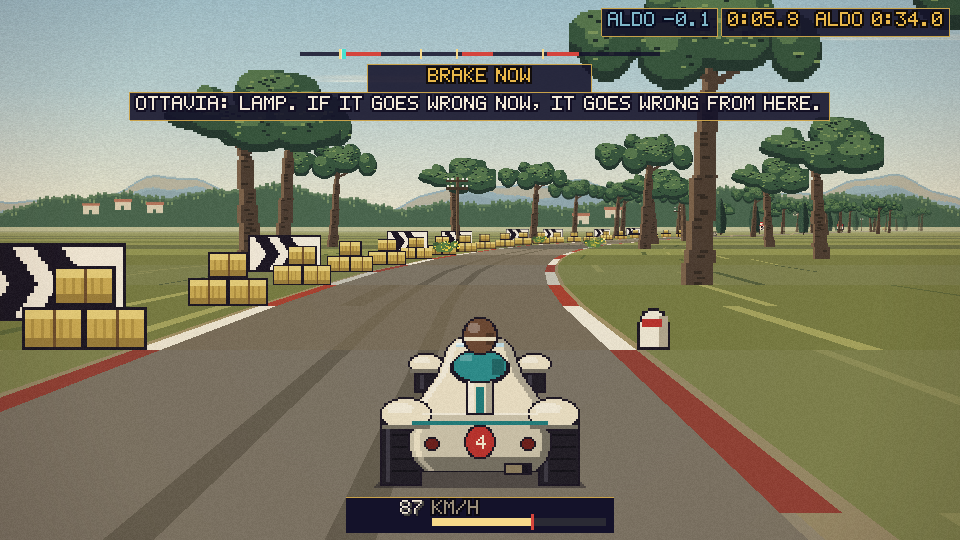
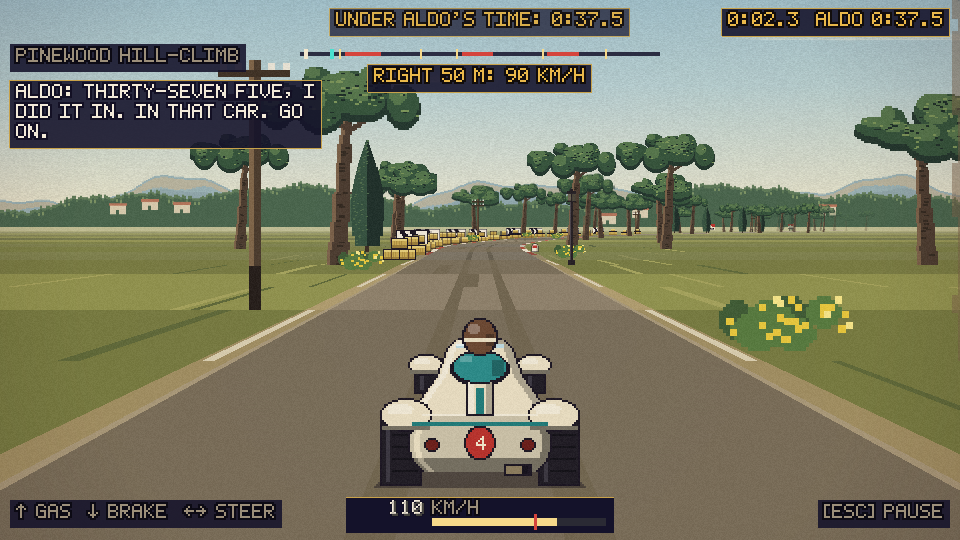
Racer polish: tries count real attempts, the radio keeps off the hard moments, the air and the sung bend are shown, night and near-camera art
- raceFor gets the tries; the scene, HUD, sheet and card read the eased gate from race.track. Aldo says the sheet's time.
- A try is a finish short of the gate, or a race given up past half its road (triedIt); restarts in the first half buy nothing.
- Radio: the first-race lamp line once, on a quiet stretch; non-story lines drop at a bend (28 chars) or over a line still read;
  story lines that are not urgent wait for a straight (6 s). Radio moved top-left; the goal plate fades with the others.
- Race 2: NO AIR on the dash, the DRAFT bar red, Aldo's nudge once, back in once. Sung bends: SHE SINGS for the pull, gold bar, chime.
  The sling now "goes" so it is not confused with the sung bend.
- Story lines from the story builder: the tide on the quay and the Coppa grid; Cassian's "You stopped. Idiot. Go!"
- Art: SABLE OIL is a band on the tail; thin roadside things fade in the last metres instead of filling an edge; air as faint dashes;
  oil glints at 100 m; Cassian's tell lit 0.45 s in two flashes, lamps bigger, head turned further; night darker outside the lamps
  (headlamp 0.6, contrast kept); the Gull lamp lights 70 m ahead and blooms; pixel-hard dust; crest 6 to 9 m.
- Call: distance rounds to the boards' 50 m, the speed holds against flicker, hidden while stopped for Cassian.
- Scenarios updated for the balance work's numbers (bell, airHold, spinKeep) and the eased gate.

diff --git a/src/dev/scenarios/racer.js b/src/dev/scenarios/racer.js
@@ -690,6 +690,7 @@ const again = {
     const atWall = { lampD: 840, d: b.from + 2, prevD: b.from + 2, v: 36, x: 1.2 * b.side, prevX: 1.2 * b.side, ghost: 0 };
     Object.assign(race.jo, atWall);
     race.lampRivals = [{ r: race.rivals[0], d: 1000, v: 30, x: 0.5, finished: null, state: 'run' }];
+    Object.assign(race.rivals[0], { d: 1000, prevD: 1000 }); // (at the lamp's mark: what he makes while Jo is in the dark he keeps 70 percent of, spinKeep)
     // his own Restart from the lamp is his choice: no question on top of it, lost or not
     dc.press('esc', 3);
     await dc.run(3);
@@ -725,7 +726,7 @@ const again = {
     await until(dc, () => dc.scene() && dc.scene().race && dc.scene().race !== race && dc.scene().race.t < 0, 200);
     rows.fresh = dc.scene().race.jo.d === 0 && dc.scene().race.jo.spins === 0;
     rows.tried = (getRun('racer').flags || {})[flagOf('test', 'tries')] - tries0;
-    return { pass: rows.restartQuiet && rows.state.title === 'Again?' && rows.state.items[0] === 'again' && rows.joState === 'reset' && rows.dark && rows.rivalBack < 1040 && rows.drivenOn && rows.lit && rows.noNag && rows.fresh && rows.tried === 1, detail: rows };
+    return { pass: rows.restartQuiet && rows.state.title === 'Again?' && rows.state.items[0] === 'again' && rows.joState === 'reset' && rows.dark && rows.rivalBack < 1050 && rows.drivenOn && rows.lit && rows.noNag && rows.fresh && rows.tried === 1, detail: rows };
   },
 };
 
@@ -871,6 +872,7 @@ const card = {
     dc.releaseAll();
     const seat = p.pauseMenu.lines.join(' | ');
     const title = p.pauseMenu.state().title;
+    const sheet = p.track.gate.time; // (before the restart: the scene object is the same one, on another road after)
     // a place gate, with the rival on the road
     p.pauseMenu.destroy();
     const r = await toTest(dc);
@@ -885,7 +887,7 @@ const card = {
     dc.releaseAll();
     const lines = r.pauseMenu.lines.join(' | ');
     const rows = { seat, title, win: lines };
-    return { pass: /seat is yours/.test(seat) && seat.includes(`Aldo's time: ${clock(p.track.gate.time)}`) && !/^P/.test(title) && /5 times/.test(lines) && /2 rubs/.test(lines) && /Out of his air once/.test(lines) && /behind you/.test(lines) && lines.includes(`Ottavia's time: ${clock(TRACKS.test.target)}`) && !/only twice/.test(lines), detail: rows };
+    return { pass: /seat is yours/.test(seat) && seat.includes(`Aldo's time: ${clock(sheet)}`) && !/^P/.test(title) && /5 times/.test(lines) && /2 rubs/.test(lines) && /Out of his air once/.test(lines) && /behind you/.test(lines) && lines.includes(`Ottavia's time: ${clock(TRACKS.test.target)}`) && !/only twice/.test(lines), detail: rows };
   },
 };
 
@@ -923,7 +925,7 @@ const harbourNight = {
   expect: 'pass',
   async run(dc) {
     const cue = TRACKS.harbour.script.gullCue;
-    const r = await warpRace(dc, 'harbour', { d: cue - 80, v: 30 });
+    const r = await warpRace(dc, 'harbour', { d: cue - 160, v: 30 }); // (the bar fills, then airHold in it: holding, not passing through)
     const race = r.race;
     const s = race.script;
     const aldo = race.rivals.find((c) => c.id === 'aldo');
@@ -988,7 +990,7 @@ const saltDay = {
     rows.sting = r.engine.state().sting;
     // … twice: lit, dark, lit, dark
     const seq = [];
-    for (let i = 0; i < 26; i++) {
+    for (let i = 0; i < 40; i++) {
       seq.push(shownLike(r, /^tail-lit/).length > 0 && !c.braking ? 1 : 0);
       await dc.run(1);
     }
@@ -999,6 +1001,7 @@ const saltDay = {
     const xing = TRACKS.salt.things.find((q) => q.kind === 'crossing');
     r = await warpRace(dc, 'salt', { d: xing.d - xing.bell - 40, v: 14 });
     const o = r.race.crossings[0];
+    r.keepGoing = true; // (sat at the gate with the field gone up the road: she would ask "Again?", and the menu stops the clock)
     dc.hold('up');
     await until(dc, () => o.state === 'bell', 300);
     dc.releaseAll();
@@ -1007,17 +1010,17 @@ const saltDay = {
     rows.bellLine = r.hudView.radioTx.rawText;
     const posts = new Set();
     const arms = new Set();
-    for (let i = 0; i < 200 && o.state === 'bell'; i++) {
+    for (let i = 0; i < 500 && o.state === 'bell'; i++) {
       await dc.run(1);
       shownLike(r, /^cross[AB]/).forEach((n) => posts.add(n[5]));
       shownLike(r, /^gate/).forEach((n) => arms.add(n[4]));
     }
     rows.posts = [...posts].sort().join('');
     rows.arms = [...arms].sort().join('');
-    await dc.run(60);
+    await dc.run(30);
     rows.train = shownLike(r, /^train/).length;
     const tx0 = r.view.crossT.x;
-    await dc.run(30);
+    await dc.run(20);
     rows.trainMoves = r.view.crossT.x - tx0;
     await until(dc, () => o.state === 'open', 300);
     await dc.run(2);
@@ -1052,7 +1055,7 @@ const coppaDay = {
     // the lamp: dark from the start, the only one; lit on the way past
     const K = TRACKS.coppa;
     const lapLamp = K.lapLen + K.script.lamp;
-    let r = await warpRace(dc, 'coppa', { d: K.script.lamp - 55, v: 28, x: 0, flags });
+    let r = await warpRace(dc, 'coppa', { d: K.script.lamp - 120, v: 28, x: 0, flags }); // (it lights 70 m ahead of him: dark from further back)
     await dc.run(1);
     rows.objective = hud.s.objective;
     rows.gull = shownLike(r, /^gull/)[0];

diff --git a/src/scenes/RaceScene.js b/src/scenes/RaceScene.js
@@ -46,9 +46,8 @@ const CUES = {
   crest: ['OTTAVIA', 'Right, over the top. Trust the board. You will not see it.'],
   stay_in_my_air: ['ALDO', "Stay in my air. Don't look at the water."],
   tide: ['ALDO', "Tide's in, stranger. A length sooner."],
-  out_and_she_sings: ['OTTAVIA', 'You are in his air. Now out, and she sings.'],
+  out_and_she_sings: ['OTTAVIA', 'You are in his air. Now out, and she goes.'],
   the_cart: ['OTTAVIA', 'A cart, past the second straight, left of the crown. Go right.'],
-  two_laps: ['OTTAVIA', 'Two laps. The box at the end of the first. Stop with your nose on the paint.'],
   the_box: ['OTTAVIA', 'The box. Stop on the paint, or there is no second lap.'],
   second_lap: ['OTTAVIA', 'New tyres. Now spend them.'],
 };
@@ -67,6 +66,8 @@ const STORY = {
 };
 const RUN_FLAGS = { salt: ['broke_orders'], coppa: ['helped_cassian', 'passed_cassian'] }; // (a script's flags that a new run answers again)
 const ONCE = new Set(['block_tell', 'mistake', 'fade', 'oil']);
+const NOW = new Set(['block_tell', 'mistake', 'oil', 'crossing_bell', 'gate', 'wheel', 'aldo_wide', 'pit_through']); // (the rest of the story waits for a straight)
+const WAIT_MAX = 6000; // ms a story line waits for a quiet road before it is dropped
 const HARD_NEAR = 150; // m to a bend's way in: from here the call is what he reads, and the radio keeps to a few words
 const HARD_SHORT = 28; // characters the radio may still say then
 const AIR = { out: ['ALDO', 'Where are you? In my air, Jo.'], back: ['OTTAVIA', 'There. Stay in it.'] };
@@ -78,7 +79,7 @@ const RADIO = {
   jump_start: 'Early. Next time.',
   launch: 'That was the green. Good.',
   armed: 'In his air. Out, and she goes.',
-  sling: 'Now she sings.',
+  sling: 'There she goes.', // (she sings in a bend taken right: the sling is another thing)
   straw: 'Straw. Slower into that one.',
   bale: 'Mind the bales.',
   spin: 'Breathe. I have you at the lamp.',
@@ -93,7 +94,7 @@ function cardLines(track, { place, time, gap, flags: run }, pass, flags, owed, s
   const gate = track.gate || {};
   const him = NAMES[nearest] || 'Him';
   const manners = run.clean ? 'Clean.' : run.spins ? `${run.spins} ${run.spins === 1 ? 'spin' : 'spins'}.` : run.rubs ? `${run.rubs} ${run.rubs === 1 ? 'rub' : 'rubs'}.` : 'Not clean.';
-  const slings = run.slings ? ` Out of his air ${run.slings === 1 ? 'once' : `${run.slings} times`}, and she sang.` : '';
+  const slings = run.slings ? ` Out of his air ${run.slings === 1 ? 'once' : `${run.slings} times`}, and she went.` : '';
   const lines = [];
   if (gate.time !== undefined) {
     const said = spoken(shownTime(time, gate, pass));
@@ -165,6 +166,7 @@ export default class RaceScene extends Phaser.Scene {
     this.steer = 0;
     this.sang = 0;
     this.lampOwed = false; // the first lamp's lesson, waiting for a quiet stretch of road
+    this.waiting = null; // a line of the story, waiting the same way
     this.airSaid = new Set();
     this.radioUntil = 0;
     this.escUp = true;
@@ -239,6 +241,11 @@ export default class RaceScene extends Phaser.Scene {
     }
     this.watchStory(jo);
     if (this.lampOwed && !this.hardMoment() && this.radio(RADIO.lamp, 3000)) this.lampOwed = false;
+    if (this.waiting && (this.time.now > this.waiting.until || !this.hardMoment())) {
+      const [who, text] = this.waiting.line;
+      if (this.time.now <= this.waiting.until) this.radio(text, Math.max(2400, text.length * 60), who, true);
+      this.waiting = null;
+    }
     this.view.startFrame();
     this.view.update(dt);
     this.hudView.update(this.race);
@@ -314,7 +321,12 @@ export default class RaceScene extends Phaser.Scene {
       this.saidOnce.add(key);
     }
     const line = STORY[key];
-    if (line) this.radio(line[1], Math.max(2400, line[1].length * 60), line[0], true);
+    if (!line) return;
+    if (!NOW.has(key) && this.hardMoment()) {
+      this.waiting = { line, until: this.time.now + WAIT_MAX };
+      return;
+    }
+    this.radio(line[1], Math.max(2400, line[1].length * 60), line[0], true);
   }
 
   // a bend's way in is near, or he is in it: the call is what he reads now
@@ -438,7 +450,7 @@ export default class RaceScene extends Phaser.Scene {
         const key = e.held ? (this.airSaid.has('out') ? 'back' : null) : 'out';
         if (key && !this.airSaid.has(key)) {
           this.airSaid.add(key);
-          this.radio(AIR[key][1], 2400, AIR[key][0], true);
+          this.radio(AIR[key][1], 2400, AIR[key][0], key === 'out'); // (getting back in is good news: it gives way to the story)
         }
         if (e.held) this.hudView.flash('IN HIS AIR', 1400);
         sfx('click');

diff --git a/src/dreams/racer/race/light.js b/src/dreams/racer/race/light.js
@@ -4,6 +4,7 @@
 //   dark      0 a day's picture … 1 the road only as far as light reaches it
 //   ambient   what is left of a colour in the dark; warm: under a lamp or a headlight
 //   beam      m: how far the headlights carry (the plan's draw distance halved at night)
+//   headlamp  how much the headlights light what they reach: a 1958 lamp is a dim yellow thing, so at night the lamp pools are the light
 //   haze      what a distance fades to by day; nightHaze: by dark
 import { mix } from '../../../art/paint.js';
 
@@ -12,7 +13,7 @@ export const mul = (c, t) => {
   return f(16) | f(8) | f(0);
 };
 
-const DAY = { dark: 0, ambient: 0xffffff, warm: 0xffffff, beam: 240, nightHaze: 0xd8d4b4, land: 0xffffff, spriteAmbient: 0xffffff };
+const DAY = { dark: 0, ambient: 0xffffff, warm: 0xffffff, beam: 240, headlamp: 1, nightHaze: 0xd8d4b4, land: 0xffffff, spriteAmbient: 0xffffff };
 export const LIGHTS = {
   day: { ...DAY, haze: 0xd8d4b4 },
   noon: {
@@ -29,6 +30,7 @@ export const LIGHTS = {
     spriteAmbient: 0x9c7f88,
     warm: 0xffecc8,
     beam: 180,
+    headlamp: 0.8,
     nightHaze: 0x7a4e60,
     land: 0x8a6a78,
     sky: { top: 0x3a3a70, mid: 0xc06a68, bottom: 0xf0a860, bars: 0x6a3a58 },
@@ -37,10 +39,11 @@ export const LIGHTS = {
     ...DAY,
     dark: 1,
     haze: 0x161a34,
-    ambient: 0x424a78,
-    spriteAmbient: 0x4a5484,
+    ambient: 0x2c3258,
+    spriteAmbient: 0x3a4270,
     warm: 0xffe8c4,
     beam: 108,
+    headlamp: 0.6,
     nightHaze: 0x161a34,
     land: 0x3a4468,
     sky: { top: 0x070a1c, mid: 0x0e1230, bottom: 0x20264a, stars: 90 },
@@ -53,6 +56,7 @@ export const LIGHTS = {
     spriteAmbient: 0x9c94a8,
     warm: 0xffecd0,
     beam: 200,
+    headlamp: 0.85,
     nightHaze: 0x8a6e80,
     land: 0x7a6a80,
     sky: { top: 0x2c3a6c, mid: 0xc88a88, bottom: 0xffcc90, stars: 12, bars: 0xe88a70 },
@@ -65,6 +69,7 @@ const blend = (a, b, k) => ({
   spriteAmbient: mix(a.spriteAmbient, b.spriteAmbient, k),
   warm: mix(a.warm, b.warm, k),
   beam: a.beam + (b.beam - a.beam) * k,
+  headlamp: a.headlamp + (b.headlamp - a.headlamp) * k,
   haze: mix(a.haze, b.haze, k),
   nightHaze: mix(a.nightHaze, b.nightHaze, k),
   land: mix(a.land, b.land, k),
@@ -128,7 +133,7 @@ const POOL = [0, 0, 0, 0.5, 1]; // the rows: 0..2 the day's own shades, 3 and 4 
 // spread: how much of the light gets this far off the road (a lamp and a headlight both light the road, not the country)
 const litAt = (L, z, level, reflect = 0, spread = 1) => {
   const beam = Math.max(0, Math.min(1, 1 - (z - 18) / Math.max(1, L.beam - 18))) ** 1.3;
-  return Math.max(beam * spread, POOL[level] * (1 - 0.3 * Math.min(1, z / 240)) * spread, reflect * (1 - (Math.min(1, z / 230)) ** 2));
+  return Math.max(beam * L.headlamp * spread, POOL[level] * (1 - 0.3 * Math.min(1, z / 240)) * spread, reflect * (1 - (Math.min(1, z / 230)) ** 2));
 };
 
 // the bands the road is painted in: [16 distances][5 rows] of each colour, at this light

diff --git a/src/dreams/racer/race/RaceHud.js b/src/dreams/racer/race/RaceHud.js
@@ -160,7 +160,8 @@ export class RaceHud {
     this.bar.setFillStyle(c.slingT > 0 ? 0x88e8ff : c.singT > 0 ? 0xffe070 : THEME['brass-light']);
     // race 2 asks one thing: whether he is in Aldo's air. The dash and the bar say it the moment he is not
     const air = race.script?.air;
-    const word = this.scene.time.now < this.flashUntil ? this.flashText : c.slingT > 0 ? 'OUT!' : air === false ? 'NO AIR' : c.armed && c.slingCool <= 0 ? 'FULL' : '';
+    const story = ['wide', 'dark', 'over'].includes(race.script?.state); // (his lights going out is not a moment for the dash to say FULL)
+    const word = story ? '' : this.scene.time.now < this.flashUntil ? this.flashText : c.slingT > 0 ? 'OUT!' : air === false ? 'NO AIR' : c.armed && c.slingCool <= 0 ? 'FULL' : '';
     if (this._last.sling !== word) this.slingTx.setColor(word === 'NO AIR' ? 'danger' : 'accent');
     this.setText('sling', this.slingTx, word);
     if (this.draft && air !== undefined && this._last.air !== air) {
@@ -196,17 +197,21 @@ export class RaceHud {
     const inBend = b && c.d >= b.from;
     const dist = b ? b.from - c.d : Infinity;
     const told = this.storyCall(race);
-    const call = (dist < 260 || inBend) && !race.result && !told && !['wide', 'dark', 'over'].includes(race.script?.state);
+    const call = (dist < 260 || inBend) && !race.result && !told && !['wide', 'dark', 'over'].includes(race.script?.state) && race.script?.wheel !== 'helping'; // (stood by his car: no bend to call)
     this.notch.setVisible(!!call);
     if (call) {
       // the speed of the line Jo is on, to the nearest 5 km/h and easing with it: it must not flicker
       const gf = gripFactor(c.grip);
       const safe = bendSafe(b, c.x, gf);
       this.notch.x = BAR.x + Math.min(BAR.w - 3, safe / SPEED_SCALE);
-      const safeK = Math.round((safe * KMH) / 5) * 5;
+      // (and it holds its number until the line has really moved: a hair either side of a 5 km/h step must not flick it back and forth)
+      const raw = safe * KMH;
+      if (this.callBend !== b || Math.abs(raw - this.safeK) > 4) this.safeK = Math.round(raw / 5) * 5;
+      this.callBend = b;
+      const safeK = this.safeK;
       const side = turnSide(b);
       // (the distance moves in the boards' own 50 m steps: a tenth of a second is no time to read a number)
-      const tight = inBend ? `${side}: HOLD ${safeK} KM/H` : `${side} ${Math.ceil(dist / 50) * 50} M: ${safeK} KM/H`;
+      const tight = inBend ? `${side}: HOLD ${safeK} KM/H` : `${side} ${Math.max(50, Math.round(dist / 50) * 50)} M: ${safeK} KM/H`;
       const whisper = this.aid || (this.teachBrake && b === (track.bends || [])[0]);
       const brake = whisper && !inBend && v > safe && c.d >= brakePoint(b, c.x, v, gf) - v * TUNE.chalkReact;
       this.setText('call', this.callTx, brake ? 'BRAKE NOW' : tight);

diff --git a/src/dreams/racer/race/RoadView.js b/src/dreams/racer/race/RoadView.js
@@ -42,8 +42,9 @@ const SLOW_IN = 14; // ms of work: ten frames averaging over this: the view draw
 const SLOW_OUT = 9; // … and under this it comes back
 const SLOW_NEAR = 20; // segments drawn in full whatever the frame costs
 // what stands by the road goes as it comes level with the car: a trunk or a sign beside the lens is a block at the screen's edge, not a thing
-const NEAR_GONE = [3.5, 6]; // m: gone by here (small things, tall things) …
-const NEAR_FULL = [8, 14]; // … whole from here
+const NEAR_GONE = [3.5, 5]; // m: gone by here (small things, tall things), by when they are at the screen's edge …
+const NEAR_FULL = [6, 8]; // … whole from here (quickly: a half-there trunk is a ghost, not a tree)
+const NEAR_FADES = /^(pine|cypress|pole|chevron|board|lamp|quayLamp|tamarisk|windpump|gull)/; // (thin things: a house or a stand beside you is still a house)
 const OIL_SHEEN = [24, 170]; // m: from here out, a spill too thin to paint is a glint on the road, so it can be read at 100 m
 const GULL_BLOOM = 1.6; // s: the Gull lamp's light coming up
 
@@ -1004,7 +1005,7 @@ export class RoadView {
   // one image of the pool on a strip: scaled, cut off at the crest, sunk in the haze
   place(n, t, s) {
     const tall = t.m > 4 ? 1 : 0;
-    const nearK = t.ob ? 1 : Math.min(1, (s.z - NEAR_GONE[tall]) / (NEAR_FULL[tall] - NEAR_GONE[tall]));
+    const nearK = t.ob || !NEAR_FADES.test(t.frame) ? 1 : Math.min(1, (s.z - NEAR_GONE[tall]) / (NEAR_FULL[tall] - NEAR_GONE[tall]));
     if (nearK <= 0) return 0;
     const hPx = t.m * s.scale;
     const x = s.x + t.x * s.halfW;
@@ -1244,11 +1245,14 @@ export class RoadView {
       if (!s || !s.visible || s.z < OIL_SHEEN[0] || s.z > OIL_SHEEN[1]) continue;
       const y = Math.round(s.y + P);
       if (y > s.clip + P) continue;
-      const half = Math.max(3, Math.round(o.wide * 0.45 * s.halfW));
+      // (wider than the spill itself, as a sheen is: the sky in it carries further than the oil does)
+      const half = Math.max(6, Math.round(o.wide * 0.9 * s.halfW));
       const x = Math.round(s.x + o.x * s.halfW);
       const T = this.L.dark ? spriteTint(this.L, s.z, this.shadeSeg[s.seg.i] ?? 0, 0.8) : 0xffffff;
       g.fillStyle(mul(0x1a1622, T)).fillRect(x - half, y - 1, half * 2, 3);
-      for (let k = -half; k < half; k += 4) g.fillStyle(mul((k / 4) % 2 ? 0x8a6ab8 : 0x6ab8c8, T)).fillRect(x + k, y - 1, Math.min(3, half - k), 1);
+      // the shine on top of it, two rows of the sky's colours broken up: it glints, where tar would not
+      const SHEEN = [0xc8a8f0, 0x9af0f8, 0xffffff, 0x9af0f8, 0xf0c8f0];
+      for (let k = -half, i = 0; k < half; k += 2, i++) g.fillStyle(mul(SHEEN[i % 5], T)).fillRect(x + k, y - 2 - ((i >> 1) % 2), 2, 2);
     }
   }
 

diff --git a/src/dreams/racer/race/tracks.js b/src/dreams/racer/race/tracks.js
@@ -238,7 +238,6 @@ export const TRACKS = {
       { d: 968, kind: 'pitboard' },
     ],
     cues: [
-      { d: 20, id: 'two_laps' },
       { d: 850, id: 'the_box' },
       { d: 300, lap: 2, id: 'second_lap' },
     ],
